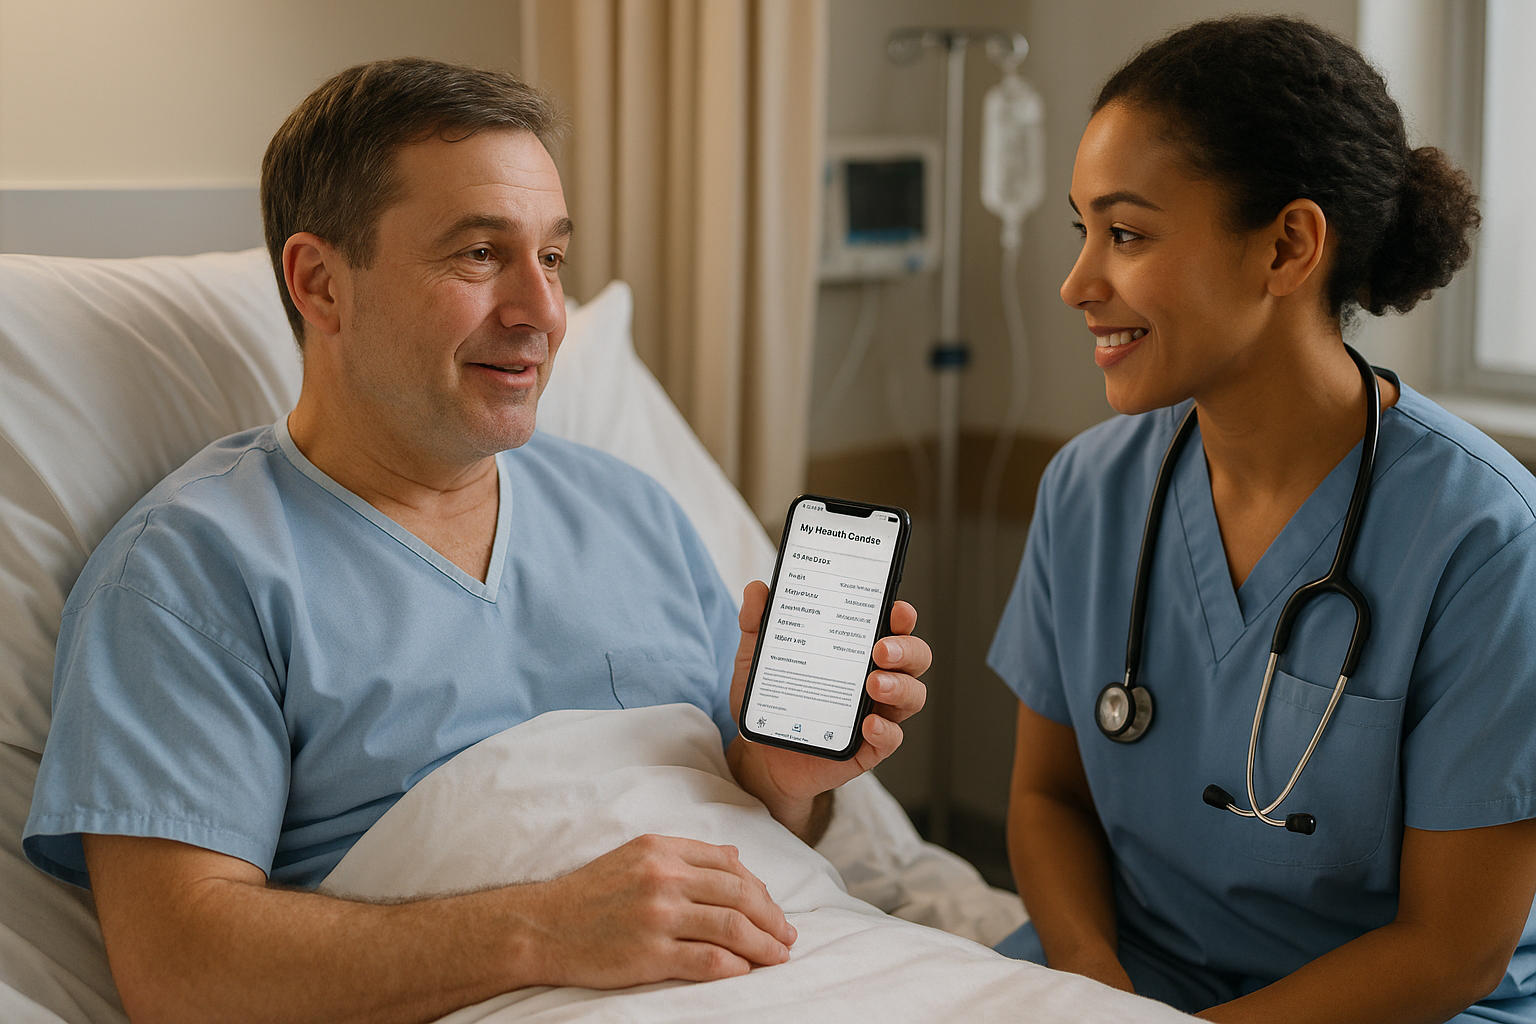
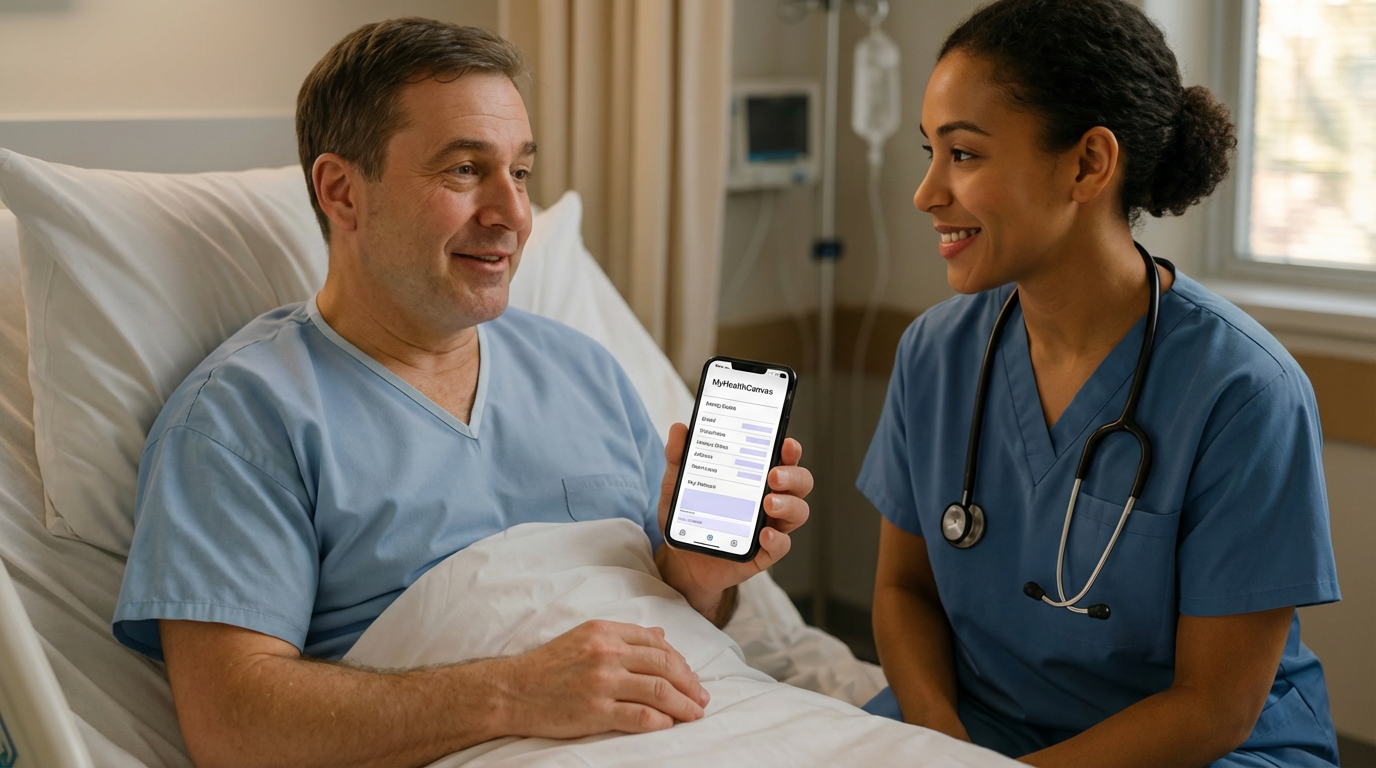
feat: Add patient-doctor hero image to MyHealthCanvas page

diff --git a/client/src/pages/MyHealthCanvas.tsx b/client/src/pages/MyHealthCanvas.tsx
@@ -155,6 +155,15 @@ export default function MyHealthCanvas() {
             <p className="text-base text-muted-foreground/80 max-w-xl mx-auto italic">
               A patient-controlled, non-medical tool designed to support clarity, dignity, and shared decision-making.
             </p>
+            
+            {/* Patient-Doctor Hero Image */}
+            <div className="mt-8 max-w-3xl mx-auto">
+              <img 
+                src="/images/patient-doctor-myhealthcanvas.png" 
+                alt="Patient showing MyHealthCanvas to doctor on phone - improving patient-clinician communication" 
+                className="w-full rounded-2xl shadow-xl"
+              />
+            </div>
           </div>
         </div>
       </section>
